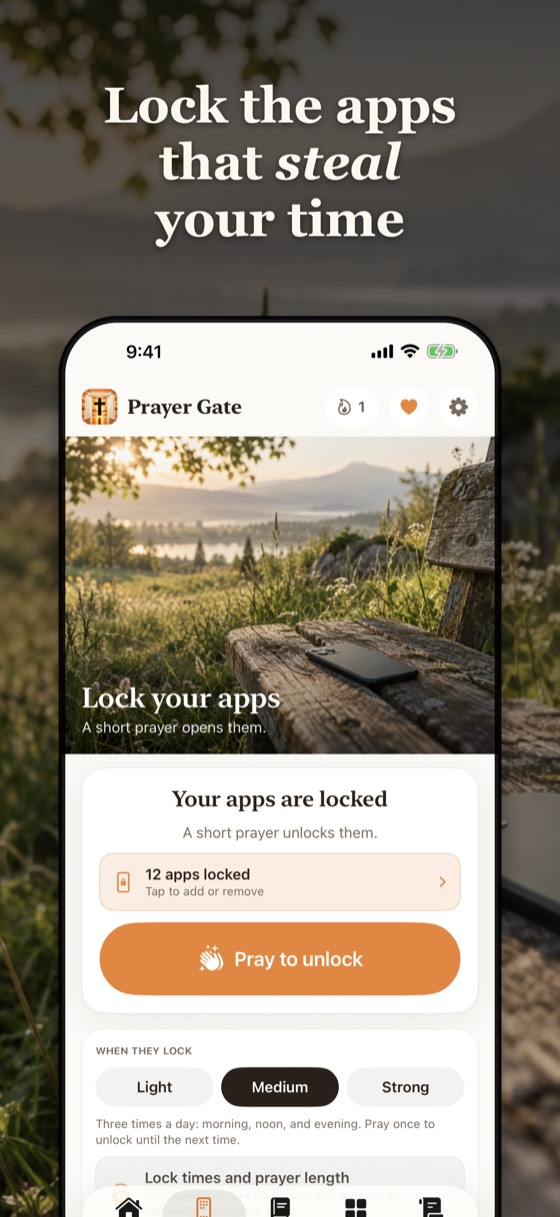
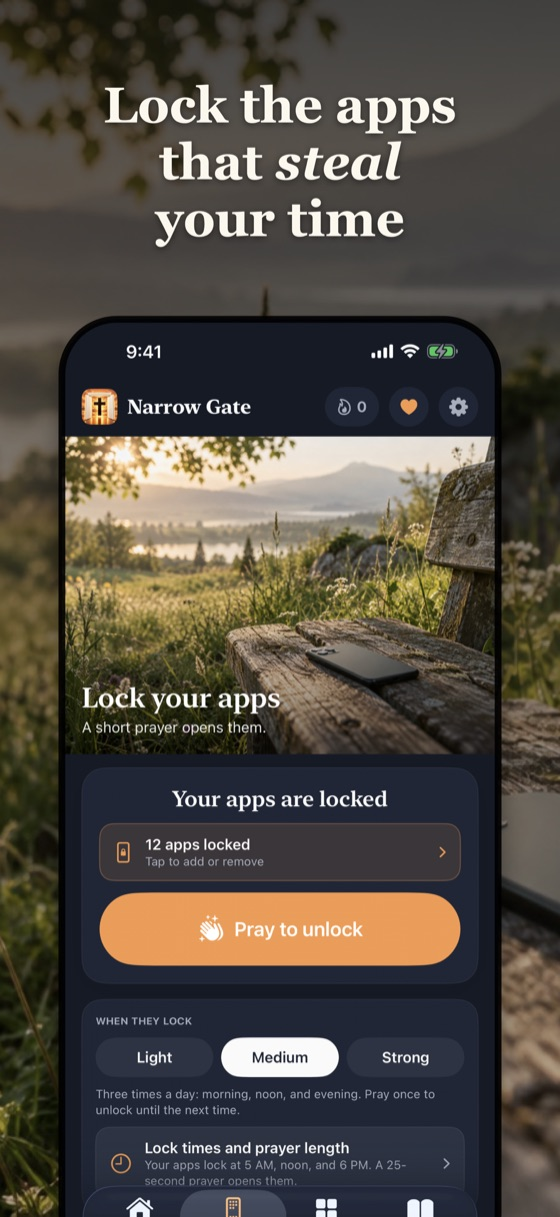
New Narrow Gate screenshots, 1200x630 link preview, descriptions on privacy/terms/support, llms.txt, Guides list

diff --git a/bible-verse-on-iphone-lock-screen.html b/bible-verse-on-iphone-lock-screen.html
@@ -1,7 +1,7 @@
 <!doctype html><html lang="en"><head><meta charset="utf-8"><meta name="p:domain_verify" content="c021eadbf49cda7eed80bf49e74961dd"/><meta name="viewport" content="width=device-width,initial-scale=1">
 <title>How to Put a Bible Verse on Your iPhone Lock Screen (3 Ways) | Narrow Gate</title><meta name="description" content="Three ways to put a Bible verse on your iPhone Lock Screen: a verse widget that changes on its own, a verse wallpaper, or a free screenshot you make yourself. Step by step, plus short verses that fit."><link rel="canonical" href="https://narrowgatebibleapp.com/bible-verse-on-iphone-lock-screen">
 <meta name="apple-itunes-app" content="app-id=6809065584"><meta property="og:type" content="website"><meta property="og:title" content="How to Put a Bible Verse on Your iPhone Lock Screen (3 Ways) | Narrow Gate">
-<meta property="og:description" content="Three ways to put a Bible verse on your iPhone Lock Screen: a verse widget that changes on its own, a verse wallpaper, or a free screenshot you make yourself. Step by step, plus short verses that fit."><meta property="og:url" content="https://narrowgatebibleapp.com/bible-verse-on-iphone-lock-screen"><meta property="og:image" content="https://narrowgatebibleapp.com/img/05_wallpapers.jpg">
+<meta property="og:description" content="Three ways to put a Bible verse on your iPhone Lock Screen: a verse widget that changes on its own, a verse wallpaper, or a free screenshot you make yourself. Step by step, plus short verses that fit."><meta property="og:url" content="https://narrowgatebibleapp.com/bible-verse-on-iphone-lock-screen"><meta property="og:image" content="https://narrowgatebibleapp.com/img/og.jpg"><meta property="og:image:width" content="1200"><meta property="og:image:height" content="630"><meta name="twitter:card" content="summary_large_image">
 <link rel="icon" href="/icon.png"><style>body{margin:0;background:#F7F1E6;color:#2B2118;font:17px/1.65 -apple-system,BlinkMacSystemFont,sans-serif}
 main{max-width:720px;margin:0 auto;padding:28px 20px 72px}nav{display:flex;flex-wrap:wrap;gap:.4em 1.1em;font-size:.95rem;margin-bottom:28px}
 nav a{color:#5a4a3c;text-decoration:none}nav a.home{font-family:Georgia,serif;font-weight:700;color:#2B2118}
@@ -12,7 +12,7 @@ a{color:#C2622E}.lead{font-size:1.15rem;color:#4a3b2e}.btn{display:inline-block;
 .card h3{margin:.1em 0 .3em;font-size:1.05rem}.card p{margin:0;font-size:.95rem;color:#5a4a3c}ol li,ul li{margin:.3em 0}
 details{background:#fff;border-radius:14px;padding:12px 16px;margin:10px 0}summary{font-weight:600;cursor:pointer}
 footer{margin-top:4em;font-size:.88rem;color:#7A6A5B}@media(prefers-color-scheme:dark){body{background:#141A2E;color:#EDE6DA}.lead{color:#D9CFC0}
-nav a{color:#B9AE9F}nav a.home{color:#EDE6DA}.card,details{background:#1E2640;box-shadow:none}.card p{color:#B9AE9F}footer{color:#9A8F80}a{color:#F7994A}}</style><script type="application/ld+json">[{"@context": "https://schema.org", "@type": "MobileApplication", "name": "Narrow Gate", "alternateName": ["Narrow Gate App", "Prayer Gate"], "operatingSystem": "iOS", "applicationCategory": "LifestyleApplication", "url": "https://narrowgatebibleapp.com/", "downloadUrl": "https://apps.apple.com/app/id6809065584", "image": "https://narrowgatebibleapp.com/icon.png", "description": "A Christian Bible app for iPhone: Bible verse widgets for the Lock Screen and Home Screen, verse wallpapers, a short prayer before the apps you choose, and the whole Bible one verse at a time, offline in KJV, WEB, BSB and ASV.", "publisher": {"@type": "Organization", "name": "Morning Harbor LLC"}}, {"@context": "https://schema.org", "@type": "Article", "headline": "How to Put a Bible Verse on Your iPhone Lock Screen", "description": "Three ways to put a Bible verse on your iPhone Lock Screen: a verse widget that changes on its own, a verse wallpaper, or a free screenshot you make yourself. Step by step, plus short verses that fit.", "datePublished": "2026-11-17", "dateModified": "2026-11-17", "mainEntityOfPage": "https://narrowgatebibleapp.com/bible-verse-on-iphone-lock-screen", "image": "https://narrowgatebibleapp.com/img/05_wallpapers.jpg", "author": {"@type": "Organization", "name": "Narrow Gate", "url": "https://narrowgatebibleapp.com/"}, "publisher": {"@type": "Organization", "name": "Morning Harbor LLC", "logo": {"@type": "ImageObject", "url": "https://narrowgatebibleapp.com/icon.png"}}}, {"@context": "https://schema.org", "@type": "FAQPage", "mainEntity": [{"@type": "Question", "name": "Can you put a Bible verse on your iPhone Lock Screen?", "acceptedAnswer": {"@type": "Answer", "text": "Yes. Add a Bible verse widget under the clock (touch and hold the Lock Screen, tap Customize, then Lock Screen, then Add Widgets), or set a picture of a verse as your wallpaper."}}, {"@type": "Question", "name": "Can the verse on my Lock Screen change every day?", "acceptedAnswer": {"@type": "Answer", "text": "Yes, with a widget. A verse widget like Narrow Gate's can show a new verse every hour or every day. A wallpaper stays the same until you change it."}}, {"@type": "Question", "name": "Why does my Lock Screen widget look see-through?", "acceptedAnswer": {"@type": "Answer", "text": "iPhone shows all Lock Screen widgets in a frosted, see-through style so they match the wallpaper. Apps can't change that."}}, {"@type": "Question", "name": "Is there a free way to put a verse on my Lock Screen?", "acceptedAnswer": {"@type": "Answer", "text": "Yes. Take a screenshot of a verse, crop it, and set it as your wallpaper in Settings, then Wallpaper, then Add New Wallpaper."}}, {"@type": "Question", "name": "What are good short Bible verses for a Lock Screen?", "acceptedAnswer": {"@type": "Answer", "text": "Psalm 23:1, Psalm 56:3, Philippians 4:13, 1 Peter 5:7 and Lamentations 3:23 are short enough to read at a glance."}}]}]</script></head>
+nav a{color:#B9AE9F}nav a.home{color:#EDE6DA}.card,details{background:#1E2640;box-shadow:none}.card p{color:#B9AE9F}footer{color:#9A8F80}a{color:#F7994A}}</style><script type="application/ld+json">[{"@context": "https://schema.org", "@type": "MobileApplication", "name": "Narrow Gate", "alternateName": ["Narrow Gate App", "Prayer Gate"], "operatingSystem": "iOS", "applicationCategory": "LifestyleApplication", "url": "https://narrowgatebibleapp.com/", "downloadUrl": "https://apps.apple.com/app/id6809065584", "image": "https://narrowgatebibleapp.com/icon.png", "description": "A Christian Bible app for iPhone: Bible verse widgets for the Lock Screen and Home Screen, verse wallpapers, a short prayer before the apps you choose, and the whole Bible one verse at a time, offline in KJV, WEB, BSB and ASV.", "publisher": {"@type": "Organization", "name": "Morning Harbor LLC"}}, {"@context": "https://schema.org", "@type": "Article", "headline": "How to Put a Bible Verse on Your iPhone Lock Screen", "description": "Three ways to put a Bible verse on your iPhone Lock Screen: a verse widget that changes on its own, a verse wallpaper, or a free screenshot you make yourself. Step by step, plus short verses that fit.", "datePublished": "2026-11-17", "dateModified": "2026-11-23", "mainEntityOfPage": "https://narrowgatebibleapp.com/bible-verse-on-iphone-lock-screen", "image": "https://narrowgatebibleapp.com/img/05_wallpapers.jpg", "author": {"@type": "Organization", "name": "Narrow Gate", "url": "https://narrowgatebibleapp.com/"}, "publisher": {"@type": "Organization", "name": "Morning Harbor LLC", "logo": {"@type": "ImageObject", "url": "https://narrowgatebibleapp.com/icon.png"}}}, {"@context": "https://schema.org", "@type": "FAQPage", "mainEntity": [{"@type": "Question", "name": "Can you put a Bible verse on your iPhone Lock Screen?", "acceptedAnswer": {"@type": "Answer", "text": "Yes. Add a Bible verse widget under the clock (touch and hold the Lock Screen, tap Customize, then Lock Screen, then Add Widgets), or set a picture of a verse as your wallpaper."}}, {"@type": "Question", "name": "Can the verse on my Lock Screen change every day?", "acceptedAnswer": {"@type": "Answer", "text": "Yes, with a widget. A verse widget like Narrow Gate's can show a new verse every hour or every day. A wallpaper stays the same until you change it."}}, {"@type": "Question", "name": "Why does my Lock Screen widget look see-through?", "acceptedAnswer": {"@type": "Answer", "text": "iPhone shows all Lock Screen widgets in a frosted, see-through style so they match the wallpaper. Apps can't change that."}}, {"@type": "Question", "name": "Is there a free way to put a verse on my Lock Screen?", "acceptedAnswer": {"@type": "Answer", "text": "Yes. Take a screenshot of a verse, crop it, and set it as your wallpaper in Settings, then Wallpaper, then Add New Wallpaper."}}, {"@type": "Question", "name": "What are good short Bible verses for a Lock Screen?", "acceptedAnswer": {"@type": "Answer", "text": "Psalm 23:1, Psalm 56:3, Philippians 4:13, 1 Peter 5:7 and Lamentations 3:23 are short enough to read at a glance."}}]}]</script></head>
 <body><main><nav><a class="home" href="/">Narrow Gate</a><a href="/bible-verse-widget">Verse widgets</a><a href="/pray-before-apps">Pray before apps</a><a href="/bible-one-verse-at-a-time">Bible one verse at a time</a><a href="/support.html">Support</a></nav><h1>How to put a Bible verse on your iPhone Lock Screen</h1>
 <p class="lead">You pick up your phone dozens of times a day. With a verse on the Lock Screen, every one of those moments starts with Scripture. Here are three ways to do it, from a verse that changes on its own to a free one you make yourself.</p>
 <p><b>Quick answer:</b> touch and hold your Lock Screen, tap <b>Customize</b>, tap <b>Lock Screen</b>, tap the space under the clock, and add a Bible verse widget. Or save a picture of a verse and set it as your wallpaper.</p>
@@ -39,7 +39,7 @@ nav a{color:#B9AE9F}nav a.home{color:#EDE6DA}.card,details{background:#1E2640;bo
 
 <h2>Way 2: Set a Bible verse wallpaper</h2>
 <p>A wallpaper puts the verse right into the picture. It's bigger and easier to read than a widget, but it doesn't change unless you set a new one.</p>
-<img class="shot" src="/img/05_wallpapers.jpg" alt="Bible verse wallpaper on an iPhone Lock Screen" width="560" height="1217">
+<img class="shot" src="/img/05_wallpapers.jpg" alt="Choosing a Bible verse wallpaper in Narrow Gate" width="560" height="1217">
 <ol>
 <li>Make or find a verse picture. In Narrow Gate, open <b>Widgets</b>, tap <b>Wallpapers</b>, choose a verse and a photo, and tap <b>Save wallpaper</b>. It goes to your Photos.</li>
 <li>Open <b>Settings</b>, tap <b>Wallpaper</b>, then <b>Add New Wallpaper</b>.</li>

diff --git a/bible-one-verse-at-a-time.html b/bible-one-verse-at-a-time.html
@@ -1,7 +1,7 @@
 <!doctype html><html lang="en"><head><meta charset="utf-8"><meta name="p:domain_verify" content="c021eadbf49cda7eed80bf49e74961dd"/><meta name="viewport" content="width=device-width,initial-scale=1">
 <title>Read the Bible One Verse at a Time – Swipe Through Scripture Offline | Narrow Gate</title><meta name="description" content="Scroll through the whole Bible one verse at a time, like a feed. Swipe up for the next verse. Search any verse. KJV, WEB, BSB and ASV, offline on iPhone."><link rel="canonical" href="https://narrowgatebibleapp.com/bible-one-verse-at-a-time">
 <meta name="apple-itunes-app" content="app-id=6809065584"><meta property="og:type" content="website"><meta property="og:title" content="Read the Bible One Verse at a Time – Swipe Through Scripture Offline | Narrow Gate">
-<meta property="og:description" content="Scroll through the whole Bible one verse at a time, like a feed. Swipe up for the next verse. Search any verse. KJV, WEB, BSB and ASV, offline on iPhone."><meta property="og:url" content="https://narrowgatebibleapp.com/bible-one-verse-at-a-time"><meta property="og:image" content="https://narrowgatebibleapp.com/icon.png">
+<meta property="og:description" content="Scroll through the whole Bible one verse at a time, like a feed. Swipe up for the next verse. Search any verse. KJV, WEB, BSB and ASV, offline on iPhone."><meta property="og:url" content="https://narrowgatebibleapp.com/bible-one-verse-at-a-time"><meta property="og:image" content="https://narrowgatebibleapp.com/img/og.jpg"><meta property="og:image:width" content="1200"><meta property="og:image:height" content="630"><meta name="twitter:card" content="summary_large_image">
 <link rel="icon" href="/icon.png"><style>body{margin:0;background:#F7F1E6;color:#2B2118;font:17px/1.65 -apple-system,BlinkMacSystemFont,sans-serif}
 main{max-width:720px;margin:0 auto;padding:28px 20px 72px}nav{display:flex;flex-wrap:wrap;gap:.4em 1.1em;font-size:.95rem;margin-bottom:28px}
 nav a{color:#5a4a3c;text-decoration:none}nav a.home{font-family:Georgia,serif;font-weight:700;color:#2B2118}
@@ -18,4 +18,5 @@ nav a{color:#B9AE9F}nav a.home{color:#EDE6DA}.card,details{background:#1E2640;bo
 <img class="shot" src="/img/03_scroll.jpg" alt="Swipe through the Bible one verse at a time in Narrow Gate" width="560" height="1217">
 <h2>Why one verse at a time</h2><ul><li>Slow down and let each verse land, instead of skimming a page.</li><li>Swipe the way you already scroll, but through Scripture.</li><li>Pick up exactly where you left off.</li></ul>
 <h2>Everything you need to read</h2><ul><li><b>Four full Bibles:</b> KJV, WEB, BSB and ASV, all inside the app.</li><li><b>Offline:</b> no connection and no account needed.</li>
-<li><b>Search:</b> jump to a reference like John 3:16, or search words like "still waters".</li><li><b>Save and share</b> the verses that speak to you.</li></ul><h2>Questions</h2><details><summary>Is there a Bible app where you swipe one verse at a time?</summary><p>Yes. Narrow Gate shows the whole Bible one verse per screen. Swipe up for the next verse.</p></details><details><summary>Does the Bible work offline?</summary><p>Yes. All four Bibles (KJV, WEB, BSB, ASV) are inside the app, so you can read without a connection.</p></details><details><summary>Does it have the King James Version?</summary><p>Yes, the KJV is included, along with the WEB, BSB and ASV.</p></details><details><summary>Can I search for a verse?</summary><p>Yes. Type a reference like Psalm 23 or a few words, and jump straight to the verse.</p></details><p><a class="btn" href="https://apps.apple.com/app/id6809065584">Download on the App Store</a></p><footer>Narrow Gate is the new name of Prayer Gate. &copy; 2026 Morning Harbor LLC · <a href="/privacy.html">Privacy</a> · <a href="/terms.html">Terms</a> · <a href="mailto:narrowgateapp@icloud.com">narrowgateapp@icloud.com</a></footer></main></body></html>
+<li><b>Search:</b> jump to a reference like John 3:16, or search words like "still waters".</li><li><b>Save and share</b> the verses that speak to you.</li></ul>
+<img class="shot" src="/img/06_search.jpg" alt="Searching the Bible for a verse in Narrow Gate" width="560" height="1217"><h2>Questions</h2><details><summary>Is there a Bible app where you swipe one verse at a time?</summary><p>Yes. Narrow Gate shows the whole Bible one verse per screen. Swipe up for the next verse.</p></details><details><summary>Does the Bible work offline?</summary><p>Yes. All four Bibles (KJV, WEB, BSB, ASV) are inside the app, so you can read without a connection.</p></details><details><summary>Does it have the King James Version?</summary><p>Yes, the KJV is included, along with the WEB, BSB and ASV.</p></details><details><summary>Can I search for a verse?</summary><p>Yes. Type a reference like Psalm 23 or a few words, and jump straight to the verse.</p></details><p><a class="btn" href="https://apps.apple.com/app/id6809065584">Download on the App Store</a></p><footer>Narrow Gate is the new name of Prayer Gate. &copy; 2026 Morning Harbor LLC · <a href="/privacy.html">Privacy</a> · <a href="/terms.html">Terms</a> · <a href="mailto:narrowgateapp@icloud.com">narrowgateapp@icloud.com</a></footer></main></body></html>

diff --git a/bible-verse-widget.html b/bible-verse-widget.html
@@ -1,7 +1,7 @@
 <!doctype html><html lang="en"><head><meta charset="utf-8"><meta name="p:domain_verify" content="c021eadbf49cda7eed80bf49e74961dd"/><meta name="viewport" content="width=device-width,initial-scale=1">
 <title>Bible Verse Widget for iPhone Lock Screen and Home Screen | Narrow Gate</title><meta name="description" content="Put a Bible verse widget on your iPhone Lock Screen and Home Screen. Verse of the day, a new verse every hour, or one verse that stays. KJV, WEB, BSB and ASV."><link rel="canonical" href="https://narrowgatebibleapp.com/bible-verse-widget">
 <meta name="apple-itunes-app" content="app-id=6809065584"><meta property="og:type" content="website"><meta property="og:title" content="Bible Verse Widget for iPhone Lock Screen and Home Screen | Narrow Gate">
-<meta property="og:description" content="Put a Bible verse widget on your iPhone Lock Screen and Home Screen. Verse of the day, a new verse every hour, or one verse that stays. KJV, WEB, BSB and ASV."><meta property="og:url" content="https://narrowgatebibleapp.com/bible-verse-widget"><meta property="og:image" content="https://narrowgatebibleapp.com/icon.png">
+<meta property="og:description" content="Put a Bible verse widget on your iPhone Lock Screen and Home Screen. Verse of the day, a new verse every hour, or one verse that stays. KJV, WEB, BSB and ASV."><meta property="og:url" content="https://narrowgatebibleapp.com/bible-verse-widget"><meta property="og:image" content="https://narrowgatebibleapp.com/img/og.jpg"><meta property="og:image:width" content="1200"><meta property="og:image:height" content="630"><meta name="twitter:card" content="summary_large_image">
 <link rel="icon" href="/icon.png"><style>body{margin:0;background:#F7F1E6;color:#2B2118;font:17px/1.65 -apple-system,BlinkMacSystemFont,sans-serif}
 main{max-width:720px;margin:0 auto;padding:28px 20px 72px}nav{display:flex;flex-wrap:wrap;gap:.4em 1.1em;font-size:.95rem;margin-bottom:28px}
 nav a{color:#5a4a3c;text-decoration:none}nav a.home{font-family:Georgia,serif;font-weight:700;color:#2B2118}
@@ -24,4 +24,4 @@ nav a{color:#B9AE9F}nav a.home{color:#EDE6DA}.card,details{background:#1E2640;bo
 <p>For the Home Screen: touch and hold an empty spot, tap <b>Edit</b>, then <b>Add Widget</b>, search "Narrow Gate" and pick a size.</p>
 <p>Step by step, with pictures and two other ways: <a href="/bible-verse-on-iphone-lock-screen">How to put a Bible verse on your iPhone Lock Screen</a>.</p>
 <h2>Bible verse wallpapers too</h2><p>Prefer a picture? Narrow Gate makes verse wallpapers on calm photos that you save to Photos and set as your Lock Screen.</p>
-<img class="shot" src="/img/05_wallpapers.jpg" alt="Bible verse wallpaper for iPhone made in Narrow Gate" width="560" height="1217"><h2>Questions</h2><details><summary>Is there a Bible verse widget for iPhone?</summary><p>Yes. Narrow Gate adds Bible verse widgets to the iPhone Lock Screen and Home Screen, in small and wide sizes.</p></details><details><summary>Can the widget show a new verse every day or every hour?</summary><p>Yes. Choose a new verse every hour, a few times a day, or once a day, or pin one verse that stays.</p></details><details><summary>Which Bible translations does the widget use?</summary><p>King James Version (KJV), World English Bible (WEB), Berean Standard Bible (BSB) and American Standard Version (ASV).</p></details><details><summary>Does it work on the Lock Screen?</summary><p>Yes. Lock Screen widgets on iPhone are shown in a soft frosted style that sits over your wallpaper.</p></details><p><a class="btn" href="https://apps.apple.com/app/id6809065584">Download on the App Store</a></p><footer>Narrow Gate is the new name of Prayer Gate. &copy; 2026 Morning Harbor LLC · <a href="/privacy.html">Privacy</a> · <a href="/terms.html">Terms</a> · <a href="mailto:narrowgateapp@icloud.com">narrowgateapp@icloud.com</a></footer></main></body></html>
+<img class="shot" src="/img/05_wallpapers.jpg" alt="Choosing a Bible verse wallpaper in Narrow Gate" width="560" height="1217"><h2>Questions</h2><details><summary>Is there a Bible verse widget for iPhone?</summary><p>Yes. Narrow Gate adds Bible verse widgets to the iPhone Lock Screen and Home Screen, in small and wide sizes.</p></details><details><summary>Can the widget show a new verse every day or every hour?</summary><p>Yes. Choose a new verse every hour, a few times a day, or once a day, or pin one verse that stays.</p></details><details><summary>Which Bible translations does the widget use?</summary><p>King James Version (KJV), World English Bible (WEB), Berean Standard Bible (BSB) and American Standard Version (ASV).</p></details><details><summary>Does it work on the Lock Screen?</summary><p>Yes. Lock Screen widgets on iPhone are shown in a soft frosted style that sits over your wallpaper.</p></details><p><a class="btn" href="https://apps.apple.com/app/id6809065584">Download on the App Store</a></p><footer>Narrow Gate is the new name of Prayer Gate. &copy; 2026 Morning Harbor LLC · <a href="/privacy.html">Privacy</a> · <a href="/terms.html">Terms</a> · <a href="mailto:narrowgateapp@icloud.com">narrowgateapp@icloud.com</a></footer></main></body></html>

diff --git a/index.html b/index.html
@@ -1,7 +1,7 @@
 <!doctype html><html lang="en"><head><meta charset="utf-8"><meta name="p:domain_verify" content="c021eadbf49cda7eed80bf49e74961dd"/><meta name="viewport" content="width=device-width,initial-scale=1">
 <title>Narrow Gate – Bible App with Verse Widgets and a Prayer Before Your Apps</title><meta name="description" content="Narrow Gate is a Christian Bible app for iPhone: Bible verse widgets for your Lock Screen, a short prayer before the apps you choose, and the whole Bible one verse at a time, offline."><link rel="canonical" href="https://narrowgatebibleapp.com/">
 <meta name="apple-itunes-app" content="app-id=6809065584"><meta property="og:type" content="website"><meta property="og:title" content="Narrow Gate – Bible App with Verse Widgets and a Prayer Before Your Apps">
-<meta property="og:description" content="Narrow Gate is a Christian Bible app for iPhone: Bible verse widgets for your Lock Screen, a short prayer before the apps you choose, and the whole Bible one verse at a time, offline."><meta property="og:url" content="https://narrowgatebibleapp.com/"><meta property="og:image" content="https://narrowgatebibleapp.com/icon.png">
+<meta property="og:description" content="Narrow Gate is a Christian Bible app for iPhone: Bible verse widgets for your Lock Screen, a short prayer before the apps you choose, and the whole Bible one verse at a time, offline."><meta property="og:url" content="https://narrowgatebibleapp.com/"><meta property="og:image" content="https://narrowgatebibleapp.com/img/og.jpg"><meta property="og:image:width" content="1200"><meta property="og:image:height" content="630"><meta name="twitter:card" content="summary_large_image">
 <link rel="icon" href="/icon.png"><style>body{margin:0;background:#F7F1E6;color:#2B2118;font:17px/1.65 -apple-system,BlinkMacSystemFont,sans-serif}
 main{max-width:720px;margin:0 auto;padding:28px 20px 72px}nav{display:flex;flex-wrap:wrap;gap:.4em 1.1em;font-size:.95rem;margin-bottom:28px}
 nav a{color:#5a4a3c;text-decoration:none}nav a.home{font-family:Georgia,serif;font-weight:700;color:#2B2118}
@@ -22,4 +22,4 @@ nav a{color:#B9AE9F}nav a.home{color:#EDE6DA}.card,details{background:#1E2640;bo
 <a class="card" href="/bible-one-verse-at-a-time" style="text-decoration:none;color:inherit"><h3>The Bible, one verse at a time</h3><p>Swipe up through the whole Bible like a feed. KJV, WEB, BSB and ASV, offline.</p></a>
 </div>
 <img class="shot" src="/img/04_widgets.jpg" alt="Bible verse widget on an iPhone Lock Screen in the Narrow Gate app" width="560" height="1217">
-<h2>Built for a quieter phone</h2><ul><li>No account and no sign-in. Your reading stays on your iPhone and your own iCloud.</li><li>Four full Bibles inside the app, so everything works without a connection.</li><li>Verse wallpapers you can save in seconds.</li></ul><p><a class="btn" href="https://apps.apple.com/app/id6809065584">Download on the App Store</a></p><footer>Narrow Gate is the new name of Prayer Gate. &copy; 2026 Morning Harbor LLC · <a href="/privacy.html">Privacy</a> · <a href="/terms.html">Terms</a> · <a href="mailto:narrowgateapp@icloud.com">narrowgateapp@icloud.com</a></footer></main></body></html>
+<h2>Built for a quieter phone</h2><ul><li>No account and no sign-in. Your reading stays on your iPhone and your own iCloud.</li><li>Four full Bibles inside the app, so everything works without a connection.</li><li>Verse wallpapers you can save in seconds.</li></ul><h2>Guides</h2><ul><li><a href="/bible-verse-on-iphone-lock-screen">How to put a Bible verse on your iPhone Lock Screen</a></li></ul><p><a class="btn" href="https://apps.apple.com/app/id6809065584">Download on the App Store</a></p><footer>Narrow Gate is the new name of Prayer Gate. &copy; 2026 Morning Harbor LLC · <a href="/privacy.html">Privacy</a> · <a href="/terms.html">Terms</a> · <a href="mailto:narrowgateapp@icloud.com">narrowgateapp@icloud.com</a></footer></main></body></html>

diff --git a/privacy.html b/privacy.html
@@ -1,4 +1,4 @@
-<!doctype html><html lang="en"><head><meta charset="utf-8"><meta name="viewport" content="width=device-width,initial-scale=1"><title>Privacy Policy · Narrow Gate</title><style>body{margin:0;background:#F7F1E6;color:#2B2118;font:17px/1.6 -apple-system,Georgia,serif;}main{max-width:680px;margin:0 auto;padding:48px 24px 80px;}h1{font-family:Georgia,serif;font-size:2rem;margin:0 0 .25em}h2{font-family:Georgia,serif;font-size:1.25rem;margin:2em 0 .5em}a{color:#C2622E}nav a{margin-right:1.2em;font-size:.95rem}footer{margin-top:4em;font-size:.9rem;color:#7A6A5B}</style></head><body><main><nav><a href="./">Narrow Gate</a><a href="privacy.html">Privacy</a><a href="terms.html">Terms</a><a href="support.html">Support</a></nav><h1>Privacy Policy — Narrow Gate</h1>
+<!doctype html><html lang="en"><head><meta charset="utf-8"><meta name="viewport" content="width=device-width,initial-scale=1"><title>Privacy Policy · Narrow Gate</title><meta name="description" content="How the Narrow Gate Bible app handles your data: no account, no IP address or location, your reading stays on your iPhone and your own iCloud."><link rel="canonical" href="https://narrowgatebibleapp.com/privacy.html"><meta property="og:type" content="website"><meta property="og:title" content="Privacy Policy · Narrow Gate"><meta property="og:description" content="How the Narrow Gate Bible app handles your data: no account, no IP address or location, your reading stays on your iPhone and your own iCloud."><meta property="og:url" content="https://narrowgatebibleapp.com/privacy.html"><meta property="og:image" content="https://narrowgatebibleapp.com/img/og.jpg"><meta name="twitter:card" content="summary_large_image"><style>body{margin:0;background:#F7F1E6;color:#2B2118;font:17px/1.6 -apple-system,Georgia,serif;}main{max-width:680px;margin:0 auto;padding:48px 24px 80px;}h1{font-family:Georgia,serif;font-size:2rem;margin:0 0 .25em}h2{font-family:Georgia,serif;font-size:1.25rem;margin:2em 0 .5em}a{color:#C2622E}nav a{margin-right:1.2em;font-size:.95rem}footer{margin-top:4em;font-size:.9rem;color:#7A6A5B}</style></head><body><main><nav><a href="./">Narrow Gate</a><a href="privacy.html">Privacy</a><a href="terms.html">Terms</a><a href="support.html">Support</a></nav><h1>Privacy Policy — Narrow Gate</h1>
 <p><em>Last updated: November 17, 2026</em></p>
 <p>Narrow Gate (called Prayer Gate until November 2026) is made by Morning Harbor LLC, a Texas limited liability company ("we", "us"). This policy explains what the app does with your information.</p>
 <p><strong>Short version:</strong> Narrow Gate has no accounts and no servers of its own. What you read, pray and save stays on your phone. We count anonymous app events, such as which features get used, to make the app better. They are never linked to you, and never say which verses you read or which apps you lock.</p>

diff --git a/terms.html b/terms.html
@@ -1,4 +1,4 @@
-<!doctype html><html lang="en"><head><meta charset="utf-8"><meta name="viewport" content="width=device-width,initial-scale=1"><title>Terms of Use · Narrow Gate</title><style>body{margin:0;background:#F7F1E6;color:#2B2118;font:17px/1.6 -apple-system,Georgia,serif;}main{max-width:680px;margin:0 auto;padding:48px 24px 80px;}h1{font-family:Georgia,serif;font-size:2rem;margin:0 0 .25em}h2{font-family:Georgia,serif;font-size:1.25rem;margin:2em 0 .5em}a{color:#C2622E}nav a{margin-right:1.2em;font-size:.95rem}footer{margin-top:4em;font-size:.9rem;color:#7A6A5B}</style></head><body><main><nav><a href="./">Narrow Gate</a><a href="privacy.html">Privacy</a><a href="terms.html">Terms</a><a href="support.html">Support</a></nav><h1>Terms of Use — Narrow Gate</h1>
+<!doctype html><html lang="en"><head><meta charset="utf-8"><meta name="viewport" content="width=device-width,initial-scale=1"><title>Terms of Use · Narrow Gate</title><meta name="description" content="Terms of Use for Narrow Gate, the Christian Bible app for iPhone with verse widgets, wallpapers and a short prayer before your apps."><link rel="canonical" href="https://narrowgatebibleapp.com/terms.html"><meta property="og:type" content="website"><meta property="og:title" content="Terms of Use · Narrow Gate"><meta property="og:description" content="Terms of Use for Narrow Gate, the Christian Bible app for iPhone with verse widgets, wallpapers and a short prayer before your apps."><meta property="og:url" content="https://narrowgatebibleapp.com/terms.html"><meta property="og:image" content="https://narrowgatebibleapp.com/img/og.jpg"><meta name="twitter:card" content="summary_large_image"><style>body{margin:0;background:#F7F1E6;color:#2B2118;font:17px/1.6 -apple-system,Georgia,serif;}main{max-width:680px;margin:0 auto;padding:48px 24px 80px;}h1{font-family:Georgia,serif;font-size:2rem;margin:0 0 .25em}h2{font-family:Georgia,serif;font-size:1.25rem;margin:2em 0 .5em}a{color:#C2622E}nav a{margin-right:1.2em;font-size:.95rem}footer{margin-top:4em;font-size:.9rem;color:#7A6A5B}</style></head><body><main><nav><a href="./">Narrow Gate</a><a href="privacy.html">Privacy</a><a href="terms.html">Terms</a><a href="support.html">Support</a></nav><h1>Terms of Use — Narrow Gate</h1>
 <p><em>Last updated: November 17, 2026.</em></p>
 <p><em>What changed on November 17, 2026: the App's new name (it was called Prayer Gate), and the App Store now lists Morning Harbor LLC as the seller. Nothing else changed.</em></p>
 <p>Please read these Terms before using Narrow Gate, formerly called Prayer Gate ("the App"). By downloading or using the App, you agree to them. If you do not agree, do not use the App.</p>

diff --git a/support.html b/support.html
@@ -1,4 +1,4 @@
-<!doctype html><html lang="en"><head><meta charset="utf-8"><meta name="viewport" content="width=device-width,initial-scale=1"><title>Support · Narrow Gate</title><style>body{margin:0;background:#F7F1E6;color:#2B2118;font:17px/1.6 -apple-system,Georgia,serif;}main{max-width:680px;margin:0 auto;padding:48px 24px 80px;}h1{font-family:Georgia,serif;font-size:2rem;margin:0 0 .25em}h2{font-family:Georgia,serif;font-size:1.25rem;margin:2em 0 .5em}a{color:#C2622E}nav a{margin-right:1.2em;font-size:.95rem}footer{margin-top:4em;font-size:.9rem;color:#7A6A5B}</style></head><body><main><nav><a href="./">Narrow Gate</a><a href="privacy.html">Privacy</a><a href="terms.html">Terms</a><a href="support.html">Support</a></nav>
+<!doctype html><html lang="en"><head><meta charset="utf-8"><meta name="viewport" content="width=device-width,initial-scale=1"><title>Support · Narrow Gate</title><meta name="description" content="Help with Narrow Gate: getting past the block screen, choosing apps and how often you pray, Screen Time access, subscriptions, and how to contact us."><link rel="canonical" href="https://narrowgatebibleapp.com/support.html"><meta property="og:type" content="website"><meta property="og:title" content="Support · Narrow Gate"><meta property="og:description" content="Help with Narrow Gate: getting past the block screen, choosing apps and how often you pray, Screen Time access, subscriptions, and how to contact us."><meta property="og:url" content="https://narrowgatebibleapp.com/support.html"><meta property="og:image" content="https://narrowgatebibleapp.com/img/og.jpg"><meta name="twitter:card" content="summary_large_image"><style>body{margin:0;background:#F7F1E6;color:#2B2118;font:17px/1.6 -apple-system,Georgia,serif;}main{max-width:680px;margin:0 auto;padding:48px 24px 80px;}h1{font-family:Georgia,serif;font-size:2rem;margin:0 0 .25em}h2{font-family:Georgia,serif;font-size:1.25rem;margin:2em 0 .5em}a{color:#C2622E}nav a{margin-right:1.2em;font-size:.95rem}footer{margin-top:4em;font-size:.9rem;color:#7A6A5B}</style></head><body><main><nav><a href="./">Narrow Gate</a><a href="privacy.html">Privacy</a><a href="terms.html">Terms</a><a href="support.html">Support</a></nav>
 <h1>Narrow Gate — Support</h1>
 
 <p><strong>How do I get past the block screen?</strong></p>

diff --git a/pray-before-apps.html b/pray-before-apps.html
@@ -1,7 +1,7 @@
 <!doctype html><html lang="en"><head><meta charset="utf-8"><meta name="p:domain_verify" content="c021eadbf49cda7eed80bf49e74961dd"/><meta name="viewport" content="width=device-width,initial-scale=1">
 <title>App That Locks Your Apps Until You Pray | Christian Screen Time App | Narrow Gate</title><meta name="description" content="Narrow Gate is a Christian screen time app for iPhone: choose the apps that take your time, and opening one asks for a short prayer or Scripture first."><link rel="canonical" href="https://narrowgatebibleapp.com/pray-before-apps">
 <meta name="apple-itunes-app" content="app-id=6809065584"><meta property="og:type" content="website"><meta property="og:title" content="App That Locks Your Apps Until You Pray | Christian Screen Time App | Narrow Gate">
-<meta property="og:description" content="Narrow Gate is a Christian screen time app for iPhone: choose the apps that take your time, and opening one asks for a short prayer or Scripture first."><meta property="og:url" content="https://narrowgatebibleapp.com/pray-before-apps"><meta property="og:image" content="https://narrowgatebibleapp.com/icon.png">
+<meta property="og:description" content="Narrow Gate is a Christian screen time app for iPhone: choose the apps that take your time, and opening one asks for a short prayer or Scripture first."><meta property="og:url" content="https://narrowgatebibleapp.com/pray-before-apps"><meta property="og:image" content="https://narrowgatebibleapp.com/img/og.jpg"><meta property="og:image:width" content="1200"><meta property="og:image:height" content="630"><meta name="twitter:card" content="summary_large_image">
 <link rel="icon" href="/icon.png"><style>body{margin:0;background:#F7F1E6;color:#2B2118;font:17px/1.65 -apple-system,BlinkMacSystemFont,sans-serif}
 main{max-width:720px;margin:0 auto;padding:28px 20px 72px}nav{display:flex;flex-wrap:wrap;gap:.4em 1.1em;font-size:.95rem;margin-bottom:28px}
 nav a{color:#5a4a3c;text-decoration:none}nav a.home{font-family:Georgia,serif;font-weight:700;color:#2B2118}

diff --git a/get.html b/get.html
@@ -1,6 +1,6 @@
 <!doctype html><html lang="en"><head><meta charset="utf-8"><meta name="viewport" content="width=device-width,initial-scale=1"><title>Get Narrow Gate</title>
 <meta name="description" content="A verse on your Lock Screen every day, and a short prayer before your apps. Free on the App Store for iPhone.">
-<meta property="og:title" content="Narrow Gate"><meta property="og:description" content="A verse on your Lock Screen every day, and a short prayer before your apps."><meta property="og:image" content="https://narrowgatebibleapp.com/icon.png">
+<meta property="og:title" content="Narrow Gate"><meta property="og:description" content="A verse on your Lock Screen every day, and a short prayer before your apps."><meta property="og:image" content="https://narrowgatebibleapp.com/img/og.jpg"><meta name="twitter:card" content="summary_large_image">
 <style>body{margin:0;background:#F7F1E6;color:#2B2118;font:17px/1.55 -apple-system,Georgia,serif;}main{max-width:460px;margin:0 auto;padding:56px 24px 64px;text-align:center}img{width:112px;height:112px;border-radius:26px;box-shadow:0 8px 24px rgba(43,33,24,.18)}h1{font-family:Georgia,serif;font-size:2rem;margin:.6em 0 .2em}p{margin:.3em 0 1.6em;color:#5a4a3c}.btn{display:inline-flex;align-items:center;gap:.55em;background:#000;color:#fff;text-decoration:none;border-radius:14px;padding:14px 26px;font:600 1.05rem -apple-system,sans-serif}.btn svg{width:22px;height:22px;fill:#fff}.note{display:none;background:#fff;border-radius:14px;padding:14px 16px;margin:0 0 1.4em;font:15px/1.45 -apple-system,sans-serif;color:#2B2118;box-shadow:0 2px 10px rgba(43,33,24,.08)}.note b{color:#C2622E}.small{font-size:.85rem;color:#7A6A5B;margin-top:1.4em}a.plain{color:#C2622E}</style></head>
 <body><main>
 <img src="icon.png" alt="Narrow Gate app icon">
